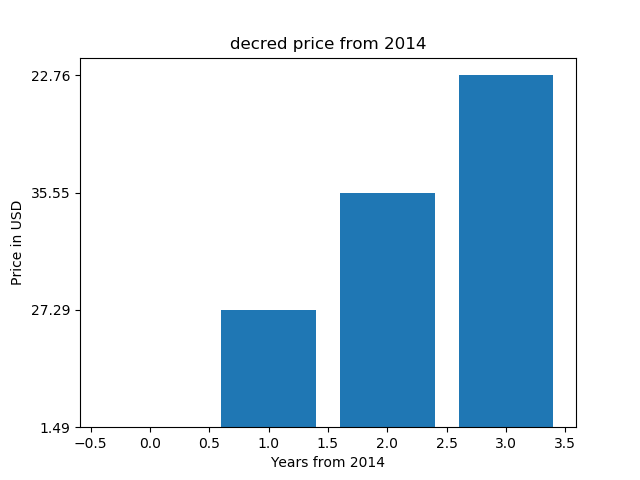
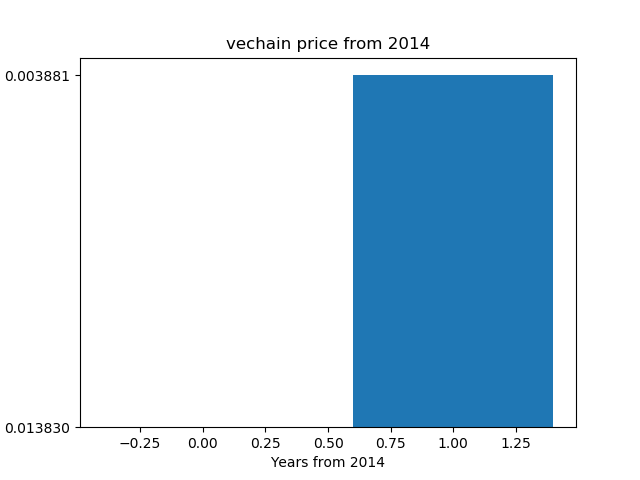
first commit

diff --git a/example.py b/example.py
@@ -10,7 +10,7 @@ from time import gmtime, strftime
 import matplotlib.pyplot as plt
 
 enddate = strftime("%Y%m%d", gmtime())
-r  = requests.get("https://coinmarketcap.com/currencies/decred/historical-data/?start=20140101&end={0}".format(enddate))
+r  = requests.get("https://coinmarketcap.com/currencies/vechain/historical-data/?start=20140101&end={0}".format(enddate))
 data = r.text
 
 soup = BeautifulSoup(data, "html.parser")
@@ -37,7 +37,7 @@ print(prices)
 
 x = list(range(0, len(prices)))
 
-plt.title('decred price from 2014')
+plt.title('vechain price from 2014')
 plt.ylabel('Price in USD')
 plt.xlabel('Years from 2014')
 plt.bar(x, prices)

diff --git a/README.md b/README.md
@@ -1,6 +1,6 @@
-# decred price chart 
+# vechain price chart 
 
-decred price chart (matplotlib, python)
+vechain price chart (matplotlib, python)
 
 https://pythonprogramminglanguage.com
 
